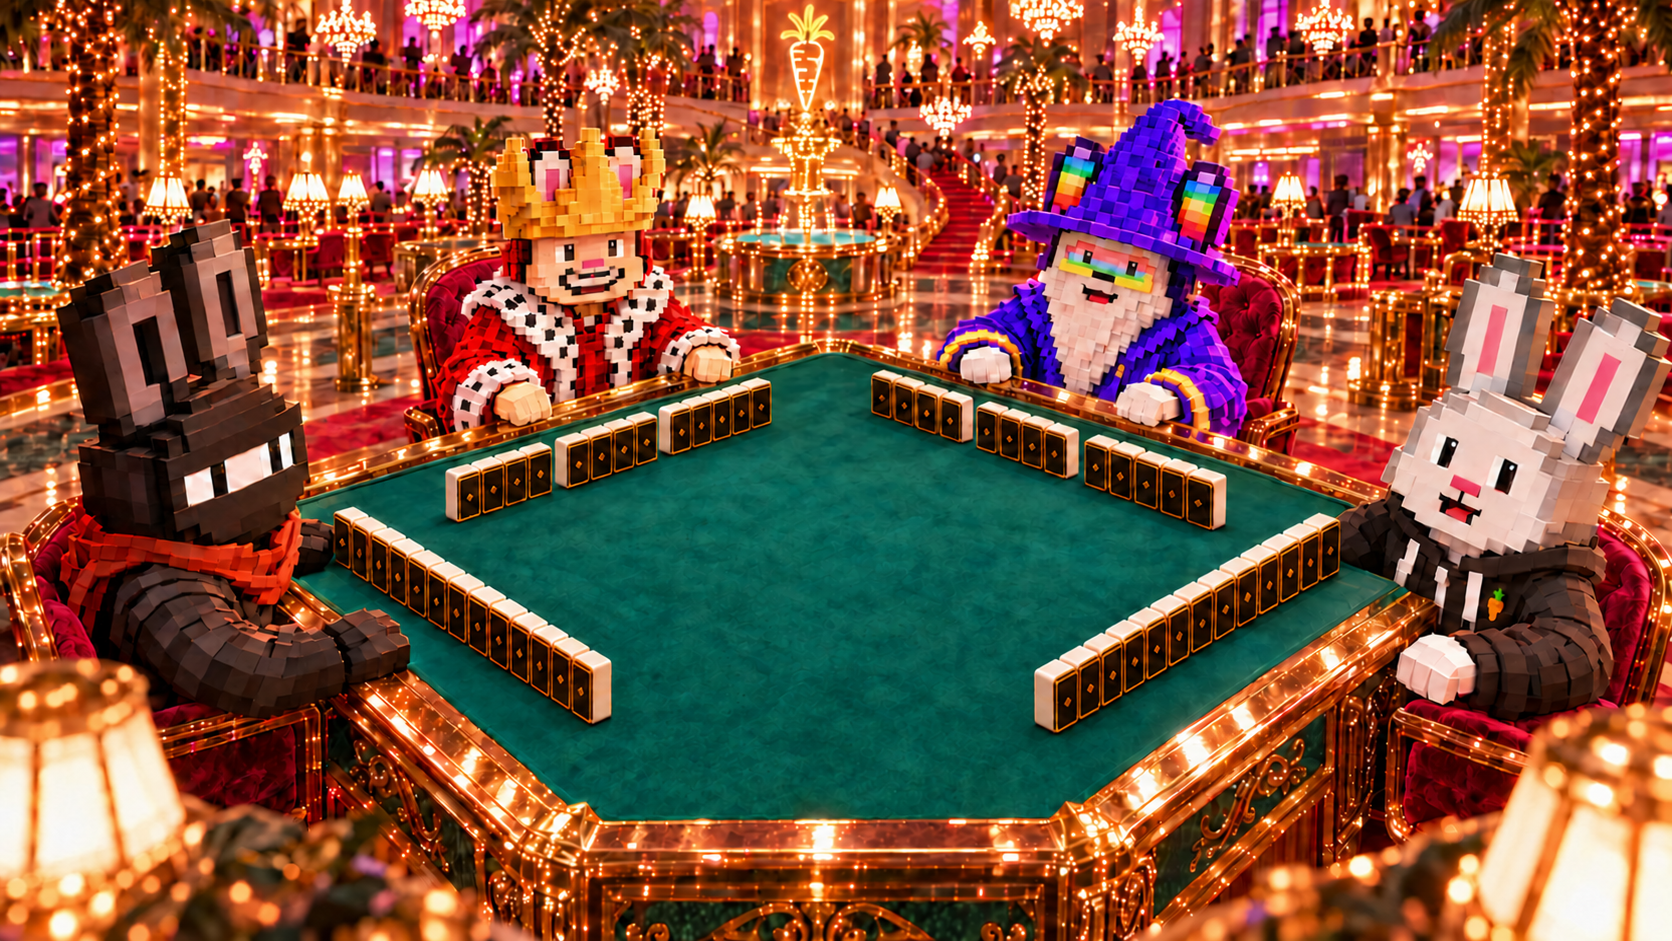
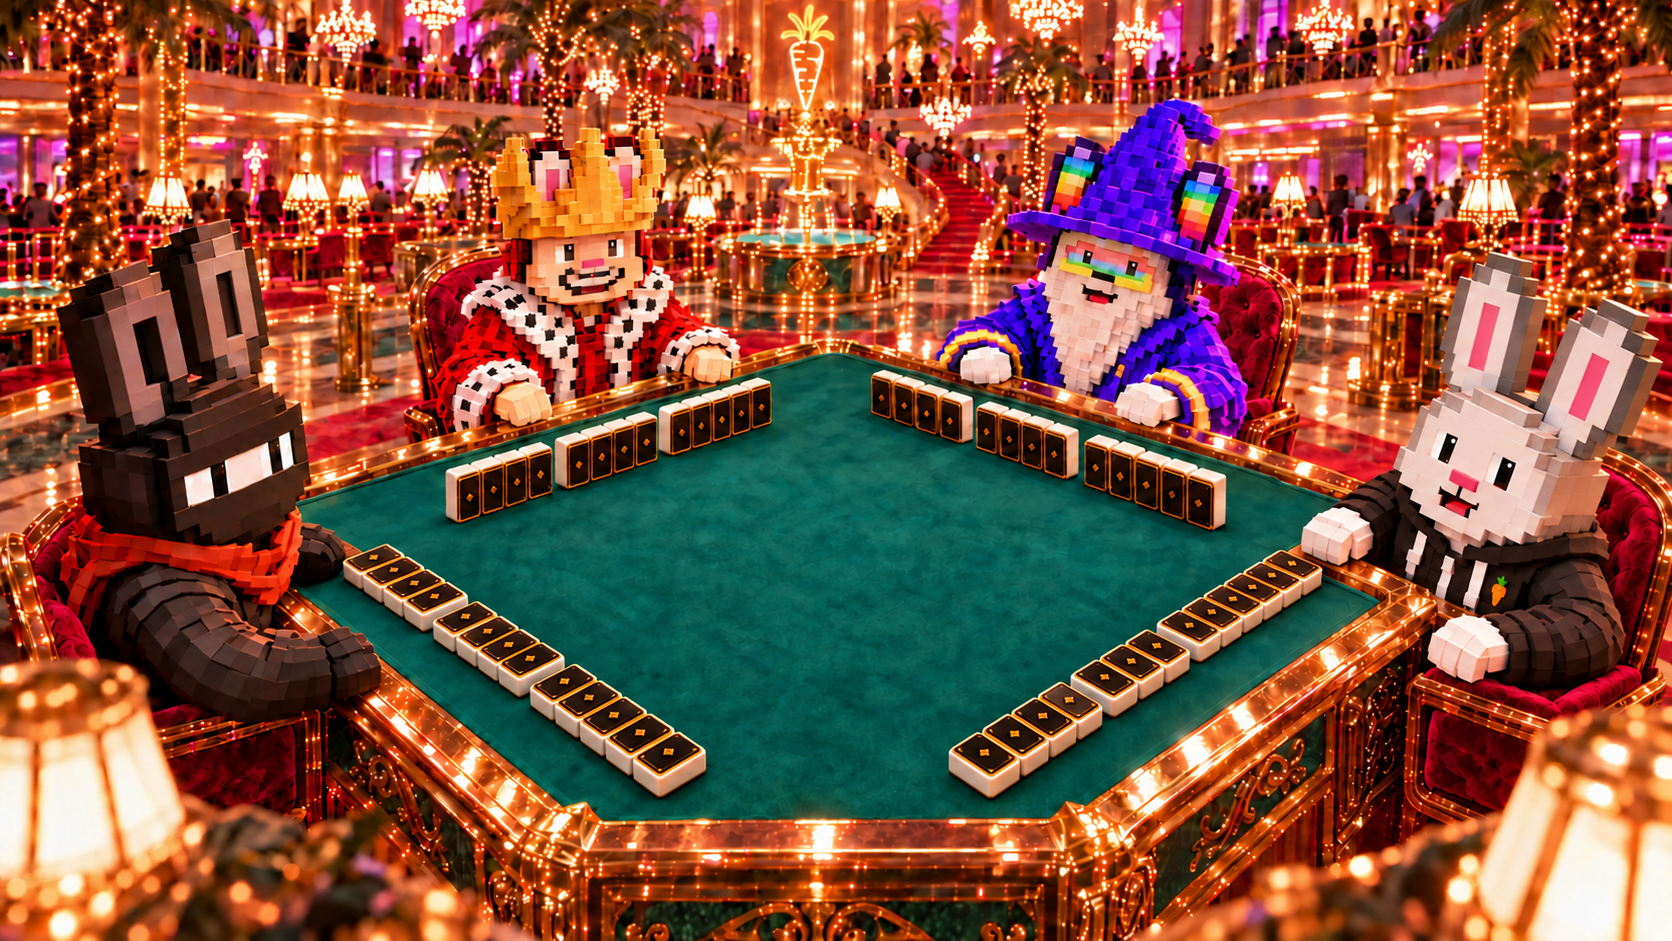
ART: separate hoodie rabbit from table and lay near-side tiles face down

diff --git a/ART/multiplayer-entry-v2/README.md b/ART/multiplayer-entry-v2/README.md
@@ -7,3 +7,5 @@
 四邊各十三張手牌，共五十二張；枱心保持空白。麻雀呈現厚實象牙白頂部與側邊、倒角、接觸陰影及黑金牌背。
 
 這是美術設計審閱圖，尚未取代公開遊戲的 VS 玩家入口圖。
+
+第二版：黑帽T兔移回枱邊外的座椅，身體與枱邊分開，雙手自然放在外側金框上。靠近觀眾的兩邊手牌改成平放蓋牌，黑金牌背朝上；遠處兩邊保持立起，每邊仍為十三張。
